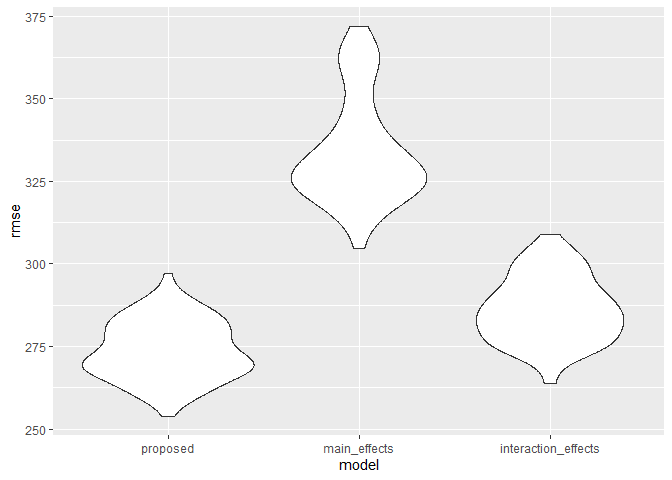
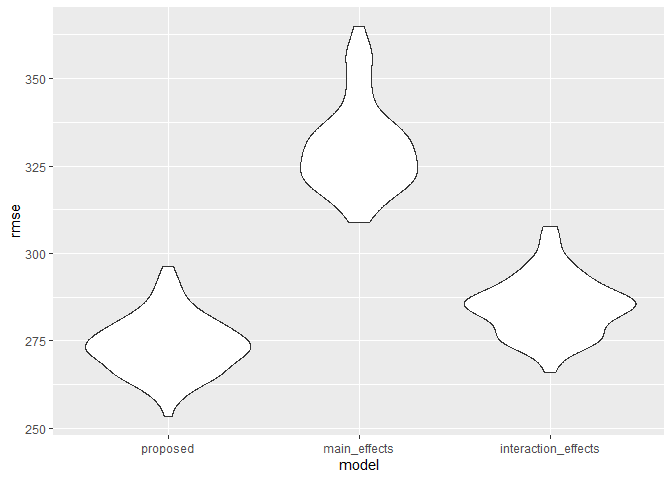
Updates the axes for Problem 2 plots.

diff --git a/p8106_hw6_mss2284.md b/p8106_hw6_mss2284.md
@@ -7,14 +7,14 @@ Maya Spaur
 library(tidyverse)
 ```
 
-    ## -- Attaching packages ------------------------------------------ tidyverse 1.2.1 --
+    ## -- Attaching packages ------------------------------------------------------------------------------------------------- tidyverse 1.2.1 --
 
     ## v ggplot2 3.2.1     v purrr   0.3.3
     ## v tibble  2.1.3     v dplyr   0.8.3
     ## v tidyr   1.0.0     v stringr 1.4.0
     ## v readr   1.3.1     v forcats 0.4.0
 
-    ## -- Conflicts --------------------------------------------- tidyverse_conflicts() --
+    ## -- Conflicts ---------------------------------------------------------------------------------------------------- tidyverse_conflicts() --
     ## x dplyr::filter() masks stats::filter()
     ## x dplyr::lag()    masks stats::lag()
 
@@ -65,15 +65,9 @@ data =
 
     ## See spec(...) for full column specifications.
 
-In proposing a regression model for birthweight, I explore two different
-model-building processes. The first uses a data-driven model-building
-process, and the second uses a hypothesized structure and
-cross-validation.
-
-Modeling process: hypothesis testing
-
-Model 1. This process is data-driven and is based on the variables that
-are statistically significant. This is backward selection.
+In proposing a regression model for birthweight, I explore a data-driven
+model-building process using backward selection, whereby variables that
+are statistically significant remain the model.
 
 Using all of the variables included in the dataset:
 
@@ -120,8 +114,7 @@ statistically significant variables to determine if they remain
 significant; the process is repeated until the remainder are all
 significant.
 
-\#LEAPS library does this automatically, can use the function STEP.
-Provide an explicit explanation.
+\#Provide an explicit explanation.
 
 As displayed below, these variables remain significant in the restricted
 model and represent the proposed model:
@@ -171,15 +164,15 @@ Main Effects Model
 main_effects = lm(bwt ~ blength + gaweeks, data = data)
 
 main_effects %>%
-  broom::tidy()
+  broom::tidy() %>%
+  knitr::kable()
 ```
 
-    ## # A tibble: 3 x 5
-    ##   term        estimate std.error statistic  p.value
-    ##   <chr>          <dbl>     <dbl>     <dbl>    <dbl>
-    ## 1 (Intercept)  -4348.      98.0      -44.4 0.      
-    ## 2 blength        129.       1.99      64.6 0.      
-    ## 3 gaweeks         27.0      1.72      15.7 2.36e-54
+| term        |     estimate | std.error |  statistic | p.value |
+| :---------- | -----------: | --------: | ---------: | ------: |
+| (Intercept) | \-4347.66707 | 97.958360 | \-44.38281 |       0 |
+| blength     |    128.55569 |  1.989891 |   64.60439 |       0 |
+| gaweeks     |     27.04673 |  1.717930 |   15.74379 |       0 |
 
 ``` r
 plot_main_effects =
@@ -199,21 +192,21 @@ Interaction Effects Model
 interaction_effects = lm(bwt ~ blength + gaweeks + (bhead*blength*babysex), data = data)
 
 interaction_effects %>%
-  broom::tidy()
+  broom::tidy() %>%
+  knitr::kable()
 ```
 
-    ## # A tibble: 9 x 5
-    ##   term                    estimate std.error statistic  p.value
-    ##   <chr>                      <dbl>     <dbl>     <dbl>    <dbl>
-    ## 1 (Intercept)            -5840.     1259.       -4.64  3.63e- 6
-    ## 2 blength                   68.2      26.2       2.61  9.22e- 3
-    ## 3 gaweeks                   14.7       1.52      9.65  7.86e-22
-    ## 4 bhead                    129.       38.1       3.39  7.03e- 4
-    ## 5 babysex2                5619.     1662.        3.38  7.29e- 4
-    ## 6 blength:bhead              0.372     0.778     0.478 6.33e- 1
-    ## 7 bhead:babysex2          -175.       50.6      -3.47  5.34e- 4
-    ## 8 blength:babysex2        -109.       34.8      -3.14  1.71e- 3
-    ## 9 blength:bhead:babysex2     3.43      1.05      3.28  1.06e- 3
+| term                   |       estimate |    std.error |   statistic |   p.value |
+| :--------------------- | -------------: | -----------: | ----------: | --------: |
+| (Intercept)            | \-5840.0301505 | 1259.2350126 | \-4.6377603 | 0.0000036 |
+| blength                |     68.1864254 |   26.1745968 |   2.6050612 | 0.0092172 |
+| gaweeks                |     14.7064339 |    1.5234147 |   9.6535986 | 0.0000000 |
+| bhead                  |    129.0169415 |   38.0506354 |   3.3906646 | 0.0007035 |
+| babysex2               |   5618.9332489 | 1662.0477858 |   3.3807291 | 0.0007293 |
+| blength:bhead          |      0.3715457 |    0.7779664 |   0.4775858 | 0.6329692 |
+| bhead:babysex2         |  \-175.4012206 |   50.6128666 | \-3.4655461 | 0.0005343 |
+| blength:babysex2       |  \-109.1636712 |   34.7838104 | \-3.1383471 | 0.0017104 |
+| blength:bhead:babysex2 |      3.4298560 |    1.0465979 |   3.2771480 | 0.0010569 |
 
 ``` r
 plot_interaction_effects =
@@ -248,15 +241,8 @@ cv_bwt_df =
   mutate(rmse_proposed = map2_dbl(proposed_model, test, ~rmse(model = .x, data = .y)),
          rmse_main_effects    = map2_dbl(main_effects, test, ~rmse(model = .x, data = .y)),
          rmse_interaction_effects = map2_dbl(interaction_effects, test, ~rmse(model = .x, data = .y)))
-```
 
-    ## Warning in predict.lm(model, data): prediction from a rank-deficient fit
-    ## may be misleading
-    
-    ## Warning in predict.lm(model, data): prediction from a rank-deficient fit
-    ## may be misleading
 
-``` r
 comparison_plot = 
   cv_bwt_df %>% 
   pivot_longer(
@@ -278,10 +264,6 @@ model, and the worst model is the main\_effects model with the highest
 RMSE.
 
 \#Problem 2
-
-\#Error? How to adjust broom::tidy –\> gives estimates for beta0 and
-beta1, can compute the log(beta0 and beta1 by creating a new column).
-have to pivot the estimate wider \#get CI by taking the percentiles
 
     ## Registered S3 method overwritten by 'crul':
     ##   method                 from
@@ -338,7 +320,7 @@ r^2
 boot_straps_1 =
   boot_straps %>% 
   unnest(results) %>%
-  ggplot(aes(x = r.squared)) + geom_density()
+  ggplot(aes(x = r.squared)) + geom_density() + labs(x = "r^2")
 
 boot_straps_1
 ```
@@ -351,15 +333,15 @@ percentile_1 =
   unnest(results) %>%
     summarize(
     perc_2.5 = quantile(r.squared, 0.025),
-    perc_90_1 = quantile(r.squared, 0.975)) %>%
+    perc_97.5 = quantile(r.squared, 0.975)) %>%
   knitr::kable()
 
 percentile_1
 ```
 
-| perc\_2.5 | perc\_90\_1 |
-| --------: | ----------: |
-| 0.8965245 |   0.9185782 |
+| perc\_2.5 | perc\_97.5 |
+| --------: | ---------: |
+| 0.8965245 |  0.9185782 |
 
 log(β<sup>0∗β</sup>1)
 
@@ -375,26 +357,26 @@ boot_straps_2 =
   janitor::clean_names() %>%
   mutate(log_term = log(intercept * tmin)) 
 
-percentile_2 = 
-  boot_straps_2 %>%
-  summarize(
-    perc_2.5 = quantile(log_term, 0.025),
-    perc_90_1 = quantile(log_term, 0.975)) %>%
-  knitr::kable()
-  
-percentile_2  
-```
-
-| perc\_2.5 | perc\_90\_1 |
-| --------: | ----------: |
-|  1.976589 |    2.062677 |
-
-``` r
 boot_straps_2_plot =
   boot_straps_2 %>%
-  ggplot(aes(x = log_term)) + geom_density()
+  ggplot(aes(x = log_term)) + geom_density() + labs(x = "log(β^0∗β^1)")
 
 boot_straps_2_plot
 ```
 
 ![](p8106_hw6_mss2284_files/figure-gfm/unnamed-chunk-7-1.png)<!-- -->
+
+``` r
+percentile_2 = 
+  boot_straps_2 %>%
+  summarize(
+    perc_2.5 = quantile(log_term, 0.025),
+    perc_97.5 = quantile(log_term, 0.975)) %>%
+  knitr::kable()
+  
+percentile_2  
+```
+
+| perc\_2.5 | perc\_97.5 |
+| --------: | ---------: |
+|  1.976589 |   2.062677 |
